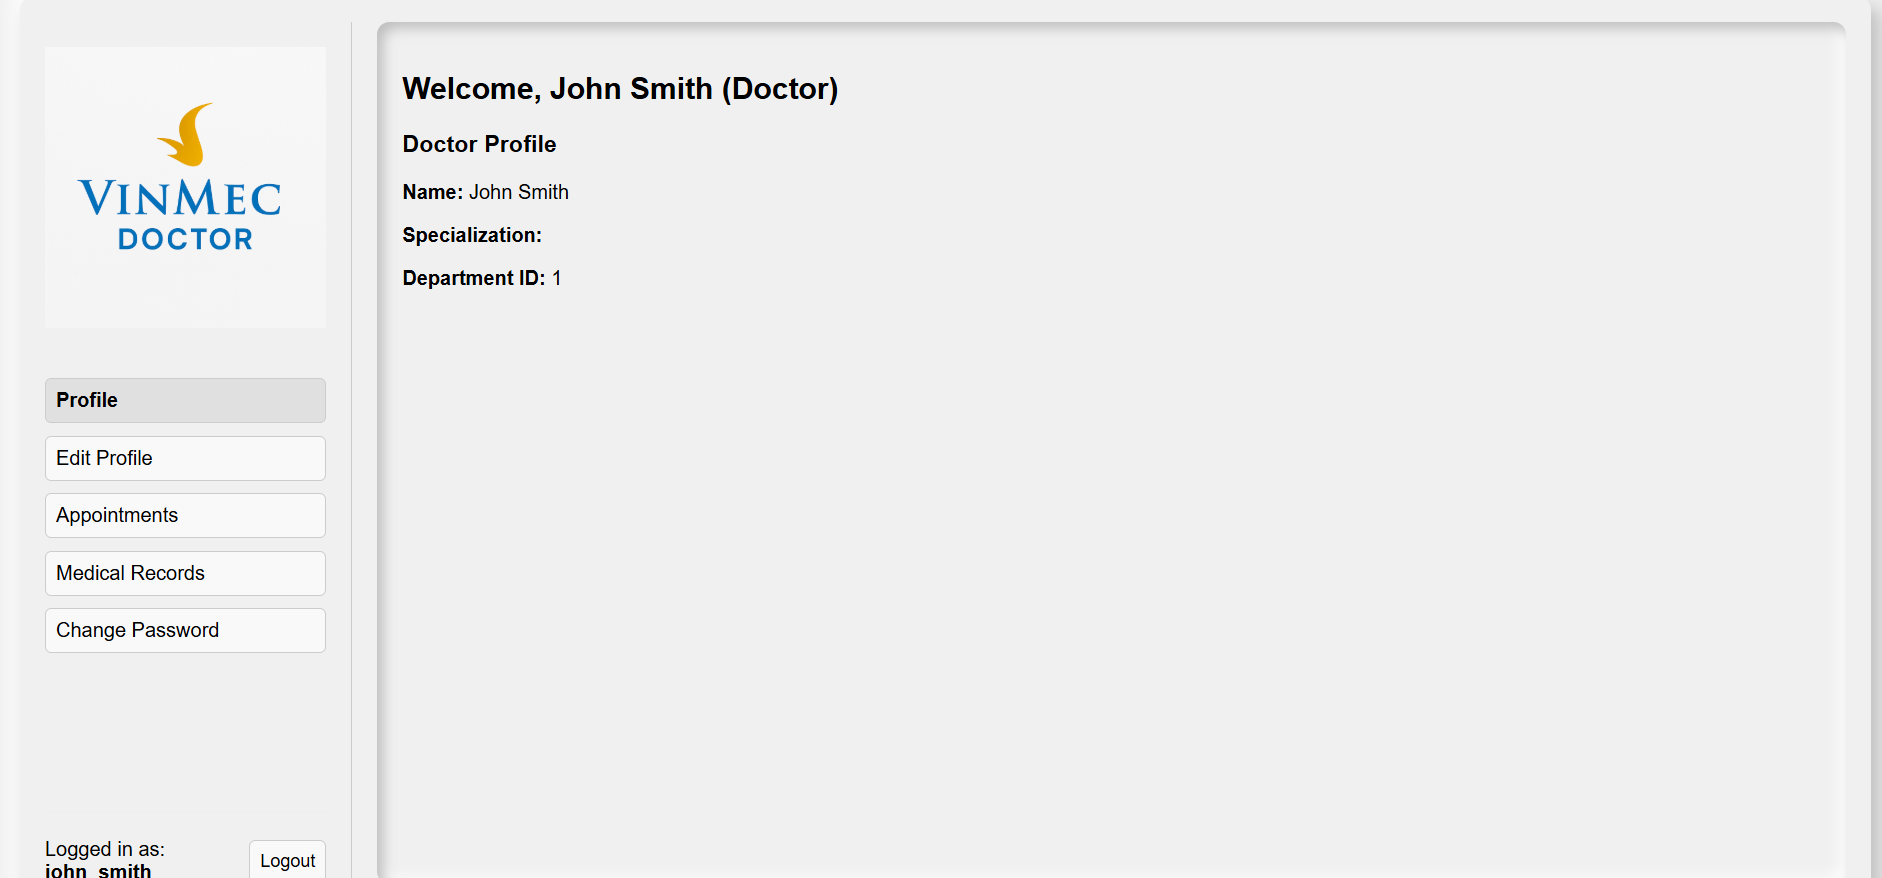
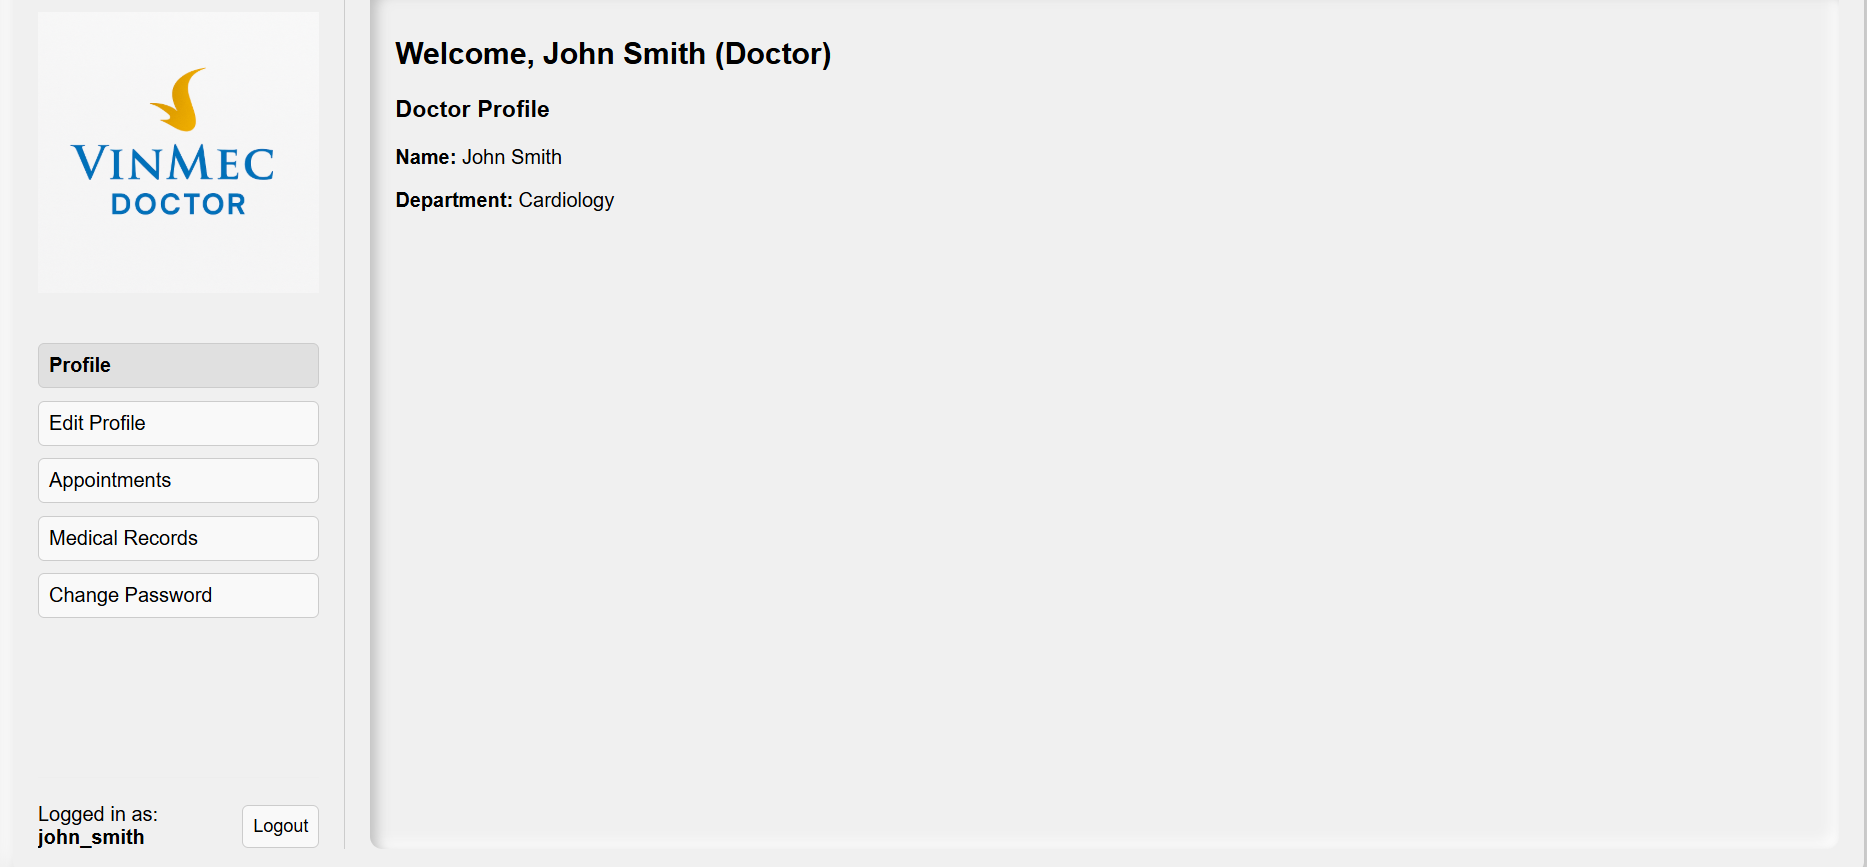
I need hotpot

diff --git a/fe/src/frontend.tsx b/fe/src/frontend.tsx
@@ -990,8 +990,7 @@ const App: React.FC = () => {
                         {doctorProfile ? (
                             <div>
                                 <p><strong>Name:</strong> {doctorProfile.Name}</p>
-                                <p><strong>Specialization:</strong> {doctorProfile.Specialization}</p>
-                                <p><strong>Department ID:</strong> {doctorProfile.DepartmentID}</p>
+                                <p><strong>Department:</strong> {departments.find(dept => dept.DepartmentID === doctorProfile.DepartmentID)?.Name || 'N/A'}</p>
                             </div>
                         ) : (
                             <p>No profile data available.</p>
